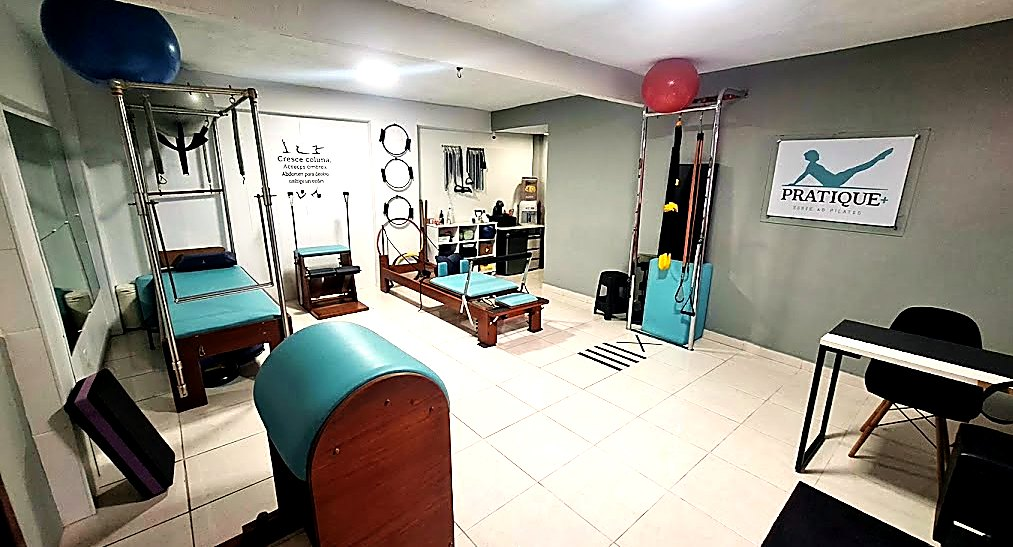
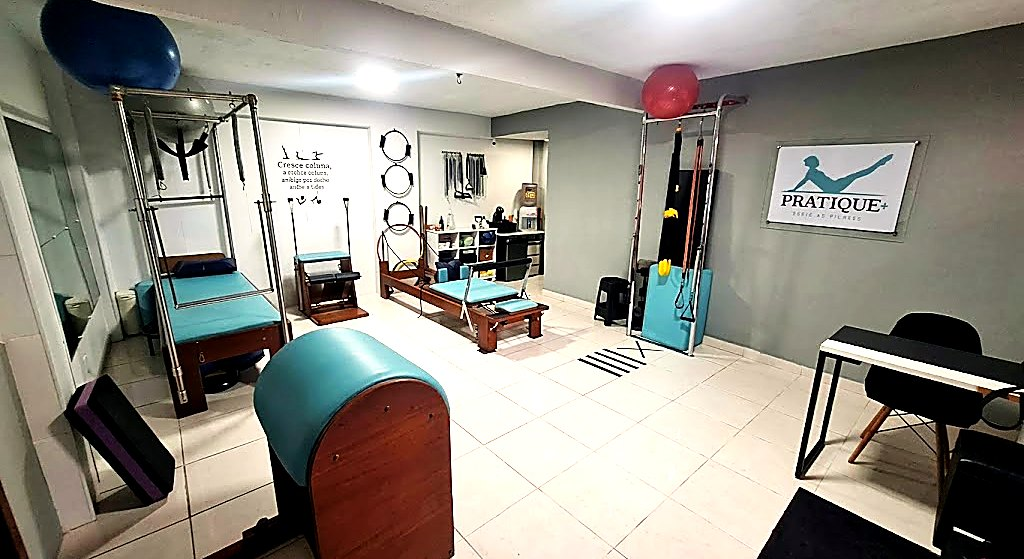
Troca a foto em destaque da placa PRATIQUE+ pela nova toma.
A mesma imagem entra no método e no bloco principal da galeria.

diff --git a/index.html b/index.html
@@ -107,10 +107,10 @@
           </div>
           <figure class="about-photo reveal reveal-delay-2">
             <img
-              src="img/estudio-sala.jpg?v=2"
+              src="img/estudio-sala.jpg?v=3"
               alt="Sala do estúdio com a placa Pratique + Pilates"
-              width="1013"
-              height="547"
+              width="1024"
+              height="559"
             />
           </figure>
         </div>
@@ -183,10 +183,10 @@
           <div class="gallery-bento">
             <figure class="shot shot-featured">
               <img
-                src="img/estudio-sala.jpg?v=2"
+                src="img/estudio-sala.jpg?v=3"
                 alt="Sala com Cadillac, barrel e a placa Pratique + Pilates"
-                width="1013"
-                height="547"
+                width="1024"
+                height="559"
                 loading="lazy"
               />
             </figure>

diff --git a/scripts/enhance-studio-photos.py b/scripts/enhance-studio-photos.py
@@ -44,9 +44,9 @@ def enhance(path, crop, max_side, warm=0.04):
 
 jobs = [
     (
-        "795f38d2-87c4-4636-9b81-5482f9365ac5.png",
+        "e4616c12-1e91-417c-ae8e-afc9919e1f5d.png",
         "estudio-sala.jpg",
-        (0.0, 0.03, 0.99, 0.98),
+        (0.0, 0.02, 1.0, 0.99),
         1800,
     ),
     (
